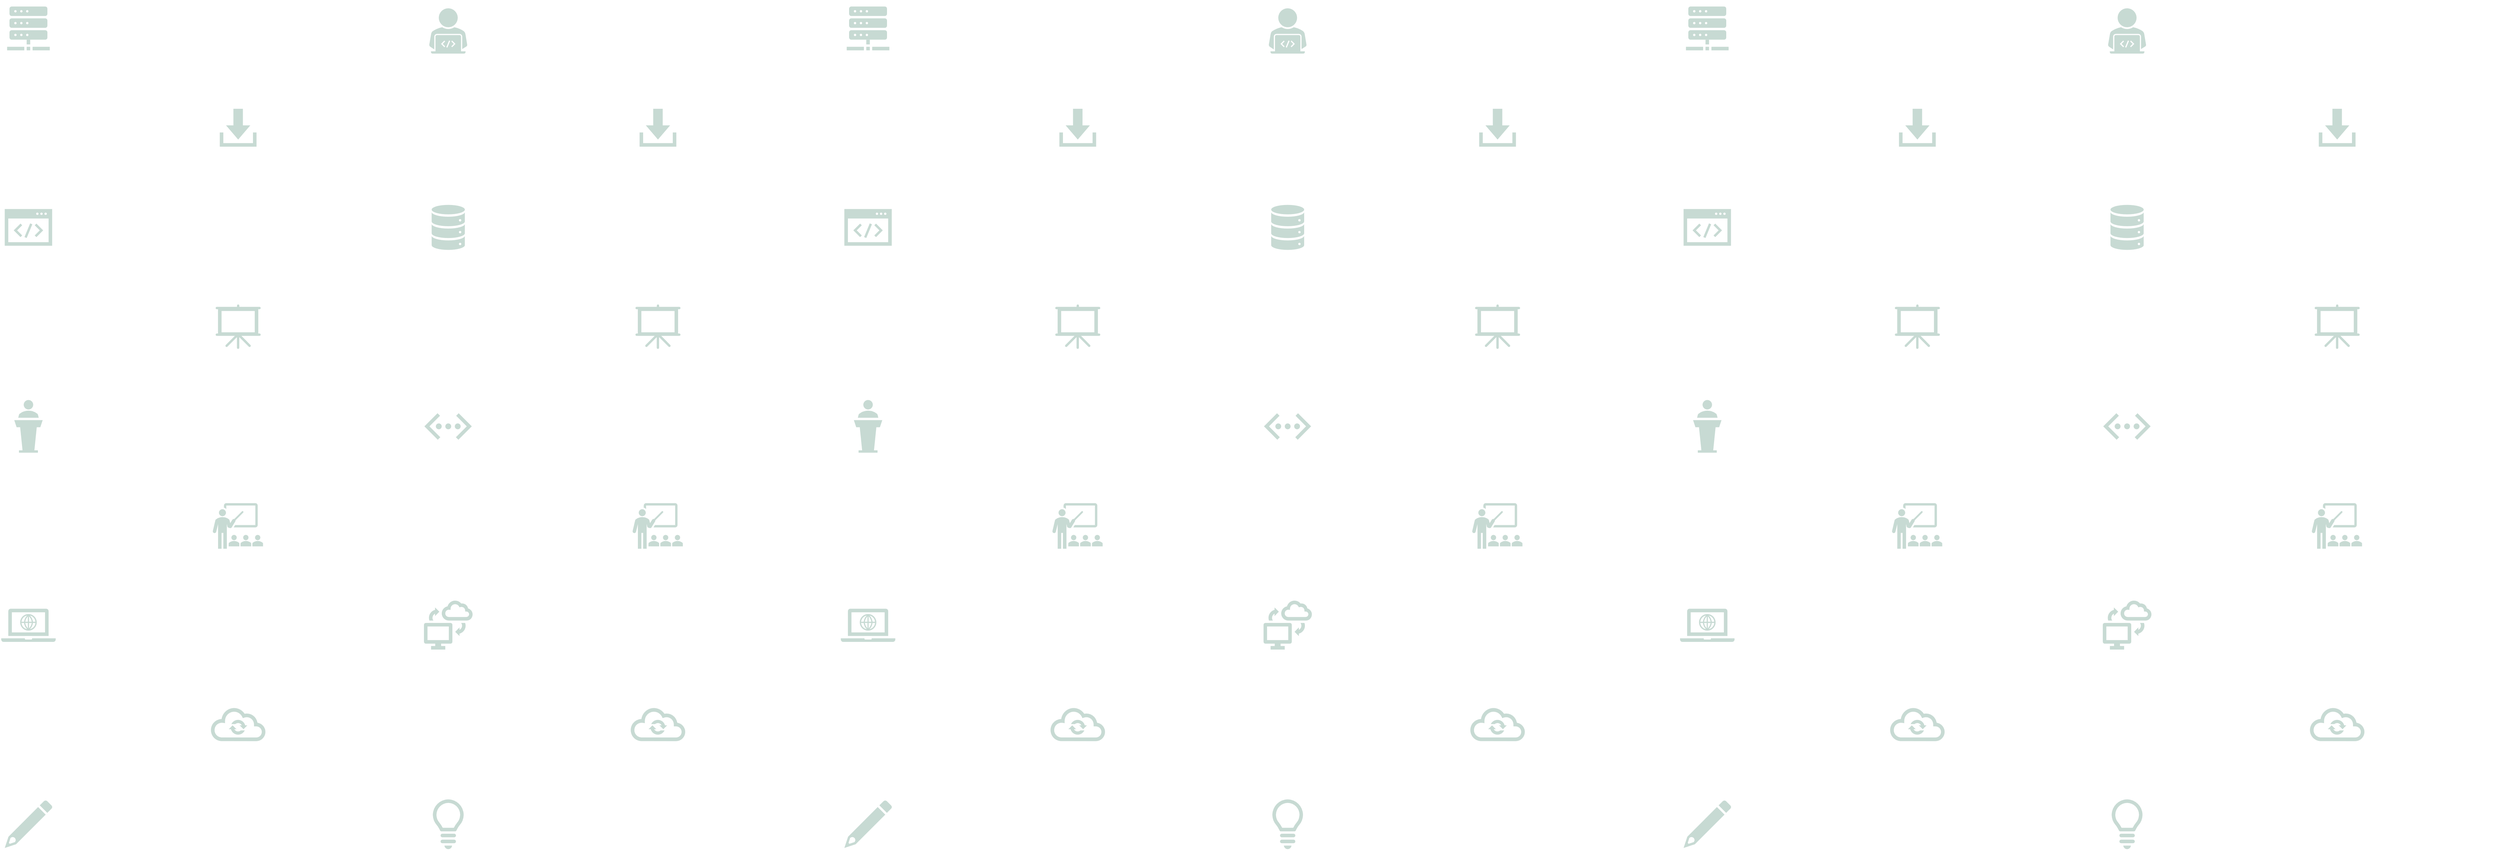
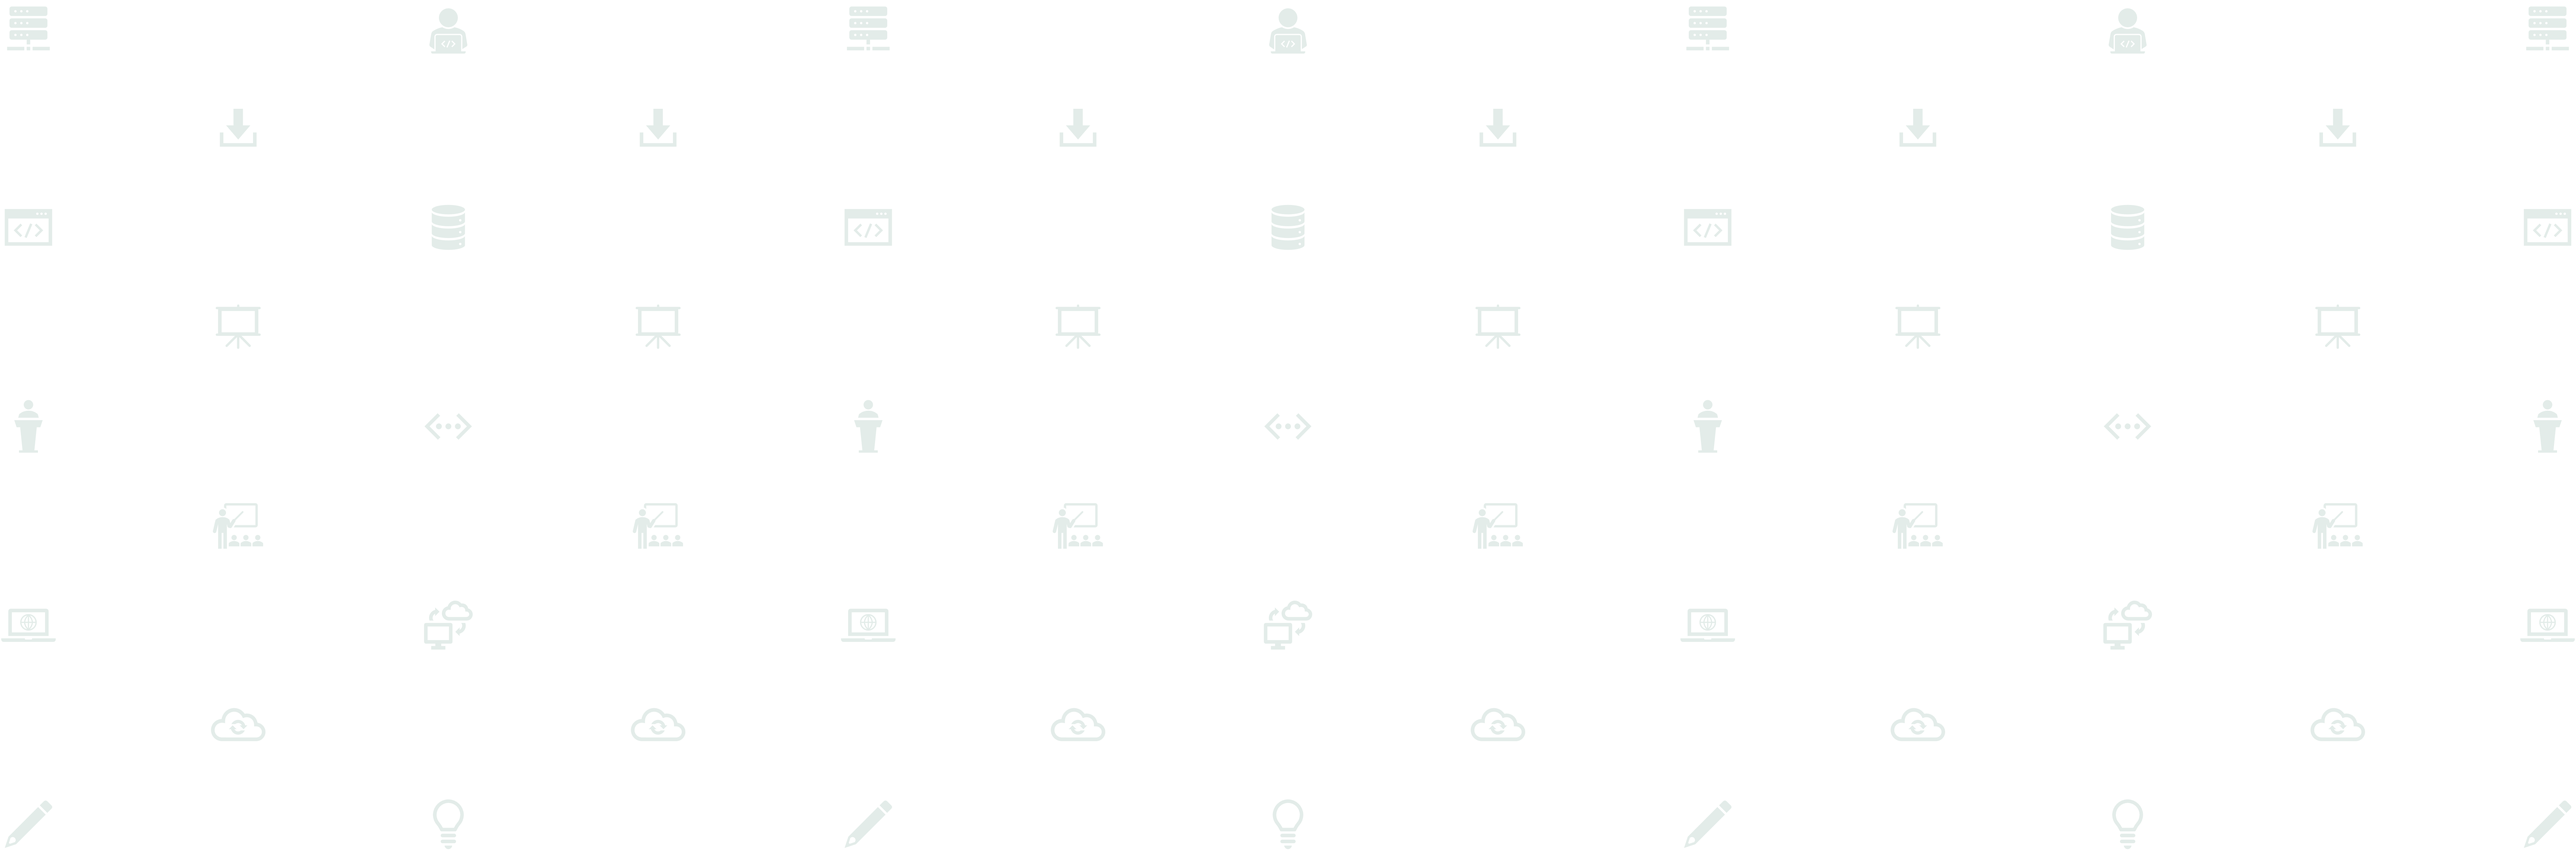
Changes Log:
* Updated the font family
* Removed animation for BG
* Localized the Favicon

diff --git a/src/styles.scss b/src/styles.scss
@@ -1,32 +1,18 @@
+@import url("https://fonts.googleapis.com/css2?family=Josefin+Sans&display=swap");
+
 @tailwind base;
 @tailwind components;
 @tailwind utilities;
 
+@layer base
+{
+  html
+  {
+    font-family: 'Josefin Sans', sans-serif;
+  }
+}
+
 body
 {
-    @apply bg-delicateWhite text-midnightNavy overflow-hidden;
-}
-
-div.background
-{
-    @apply absolute h-screen -z-10 opacity-50;
-    
-    div
-    {
-        @apply h-full w-[20373px] bg-[url("assets/BackGround.png")] bg-repeat-x bg-center bg-contain;
-        animation: slide 500s linear infinite;
-    }
-}
-
-@keyframes slide
-{
-    0%
-    {
-      transform: translate3d(0, 0, 0);
-    }
-    
-    100%
-    {
-      transform: translate3d(-6791px, 0, 0);
-    }
+  @apply bg-delicateWhite text-midnightNavy;
 }

diff --git a/src/index.html b/src/index.html
@@ -9,15 +9,12 @@
     <base href="/">
     
     <!--
-      Favicon is from Twemoji <https://twemoji.twitter.com/>
+      Favicon is from and copyrighted by Twemoji <https://twemoji.twitter.com/>
     -->
-    <link rel="icon" type="image/x-icon" href="https://twemoji.maxcdn.com/v/latest/72x72/1f468-1f3fd-200d-1f4bb.png">
+    <link rel="icon" type="image/x-icon" href="favicon.png">
   </head>
 
-  <body>
-    <div class="background">
-      <div></div>
-    </div>
+  <body>  
     <app-root></app-root>
   </body>
 </html>

diff --git a/src/app/home/home.component.html b/src/app/home/home.component.html
@@ -4,4 +4,6 @@
     <div class="text-3xl md:text-4xl ml-0.5">I am a Full-Stack Developer</div>
 </div>
 
-<img src="assets\Bitmoji_Hi.png" class="absolute right-1 bottom-0 h-52 md:h-60" alt="A bitmoji saying Hi">
+<img src="/assets/Bitmoji_Hi.png" class="absolute right-1 bottom-0 h-52 md:h-60" alt="">
+
+<div class="absolute top-0 -z-10 h-screen w-screen bg-[url('/assets/BackGround.png')] bg-center bg-cover"></div>
